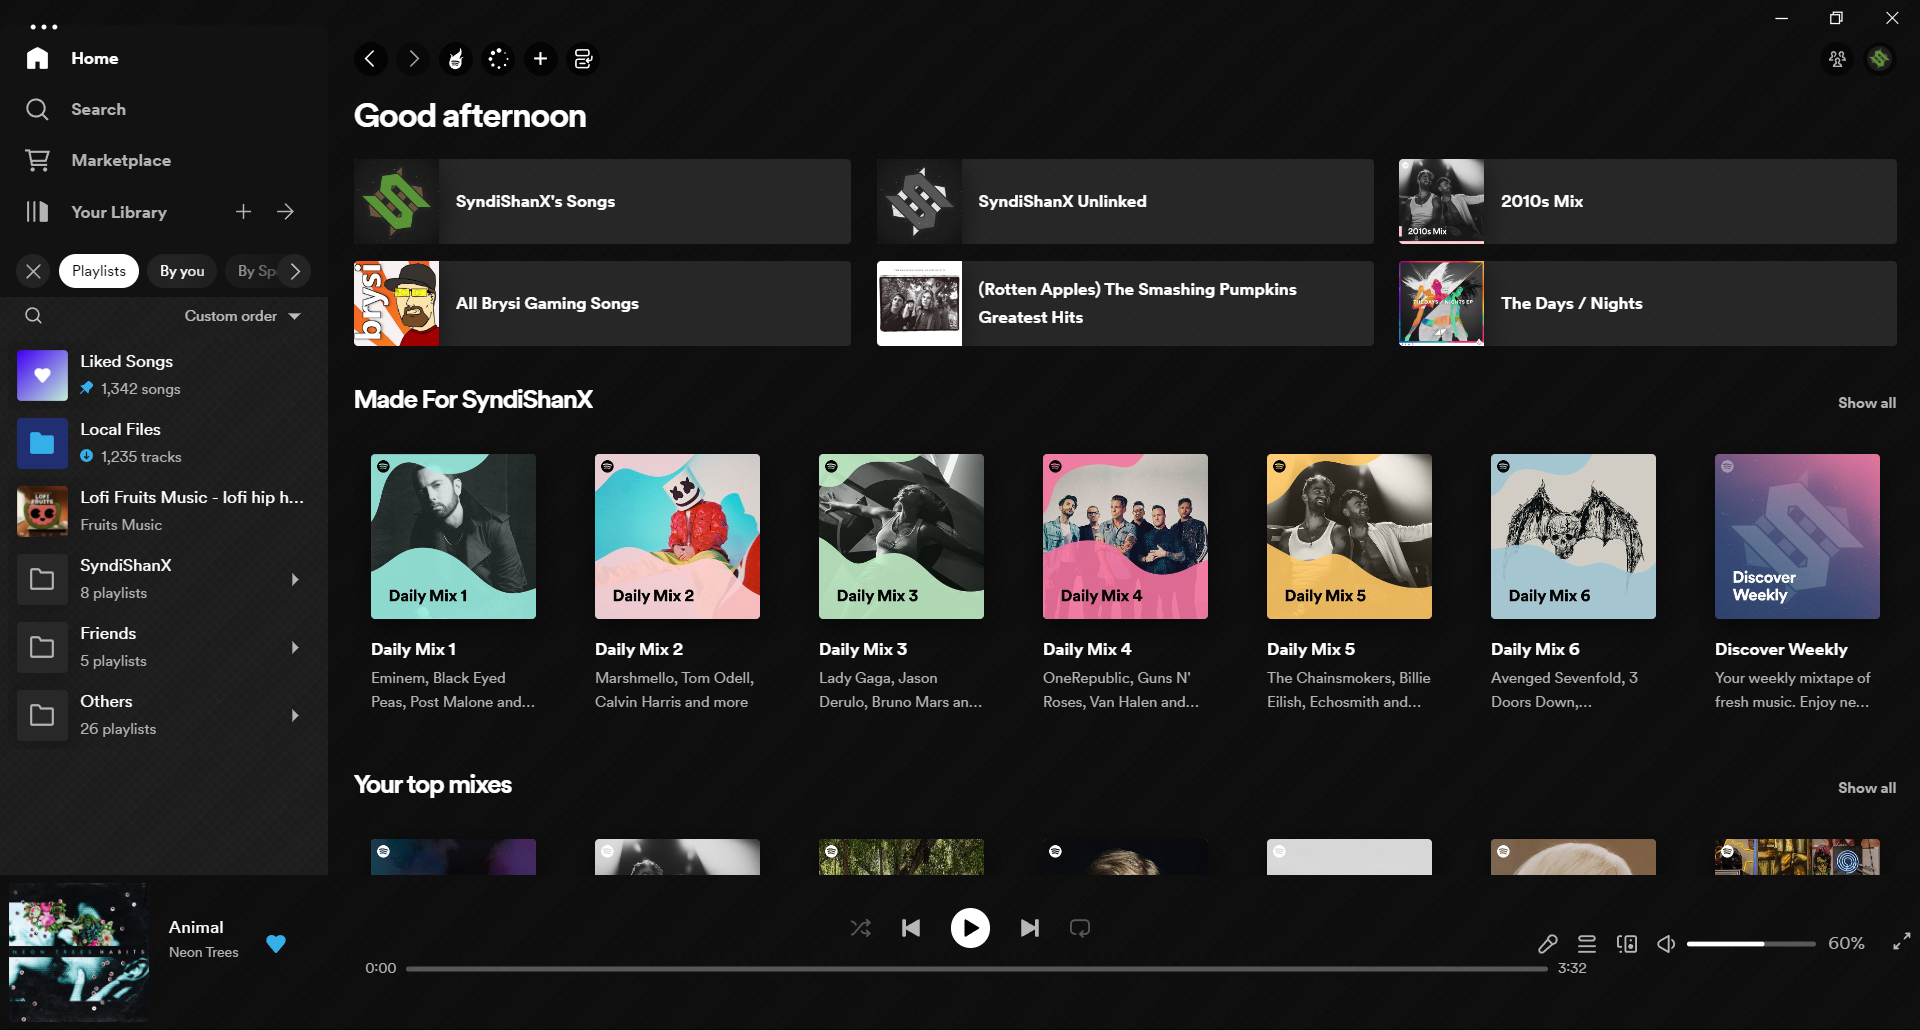
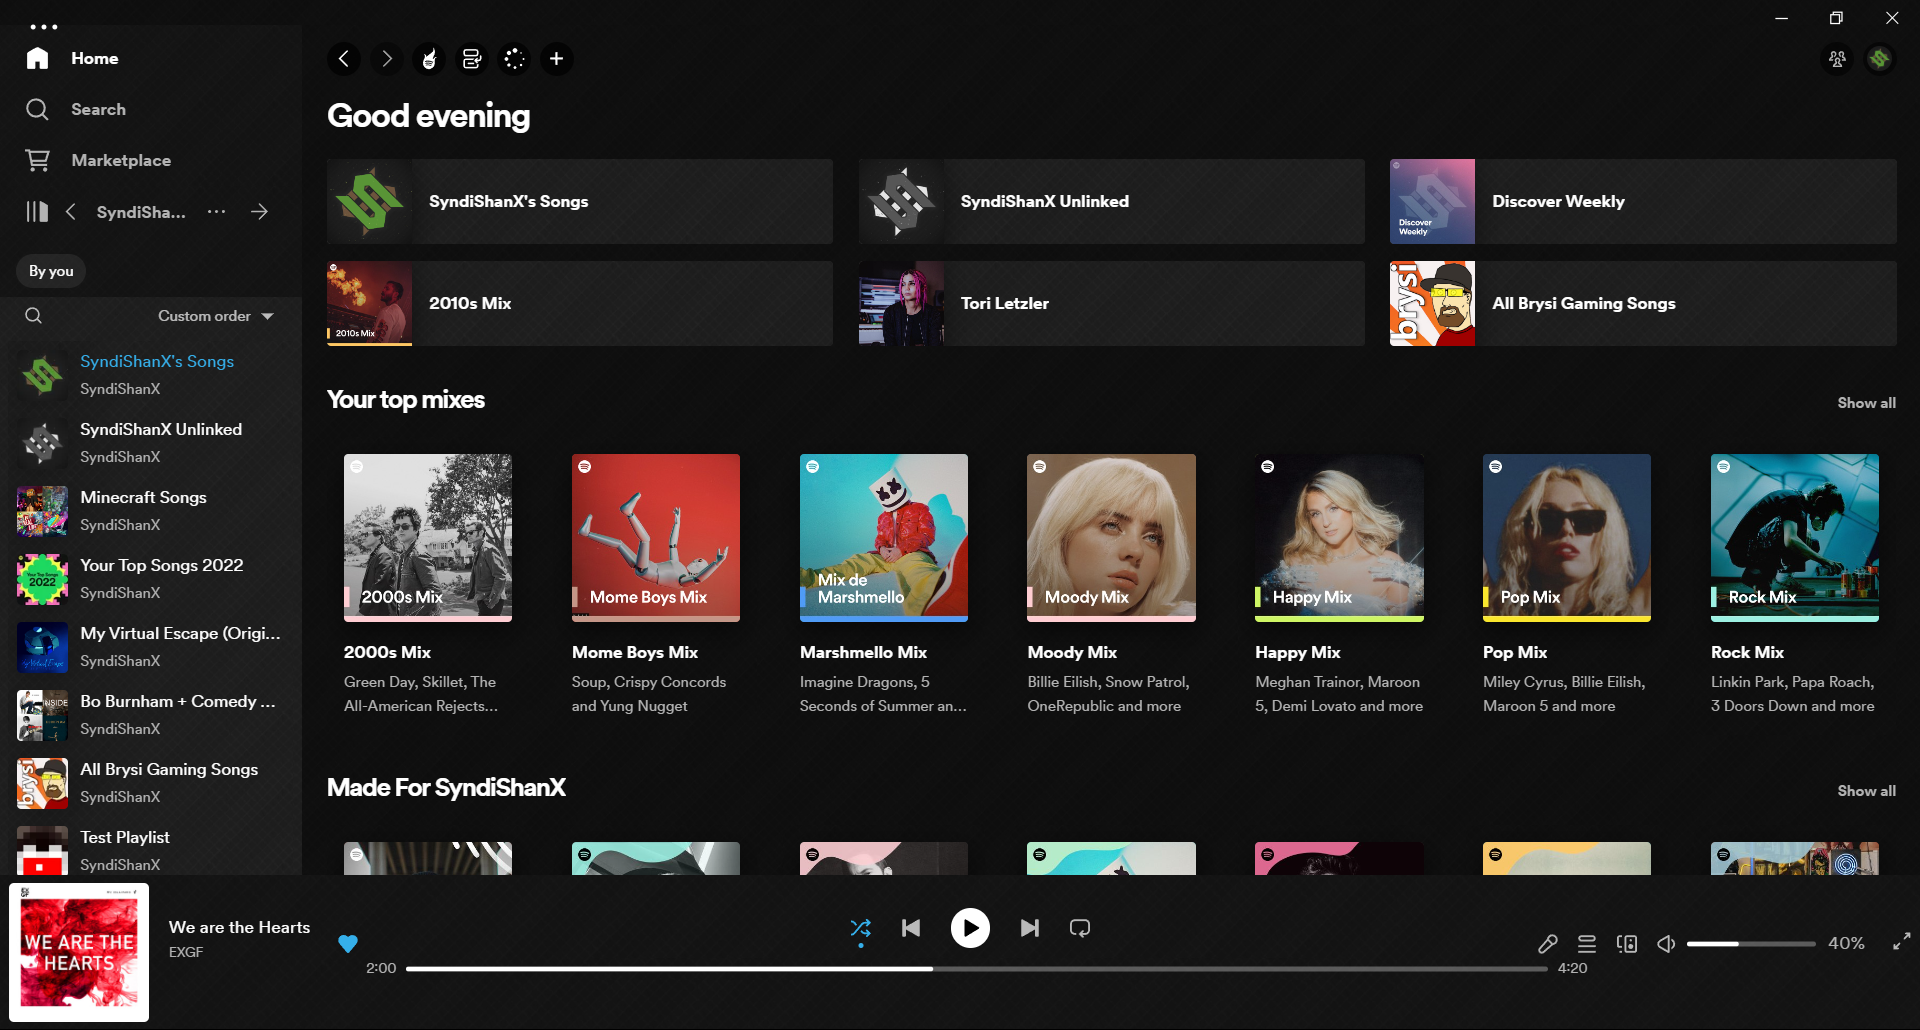
Updated Images and Fixed Unstyled Element on Home Page

diff --git a/SyndiShanX/user.css b/SyndiShanX/user.css
@@ -19,7 +19,7 @@ html {
 
 /* Light Background Image */
 .main-home-homeHeader, .x-entityHeader-overlay, .x-actionBarBackground-background, .main-contextMenu-menu, .main-navBar-navBar .os-padding, .main-trackList-selected, #spicetify-playlist-list,
-.main-dropDown-dropDown, textarea, input, .main-yourLibraryX-libraryRootlist {
+.main-dropDown-dropDown, textarea, input, .main-yourLibraryX-libraryRootlist, .view-homeShortcutsGrid-main {
 	background-image: var(--bgImage)!important;
 	background-clip: border-box!important;
 	background-origin: padding-box!important;
